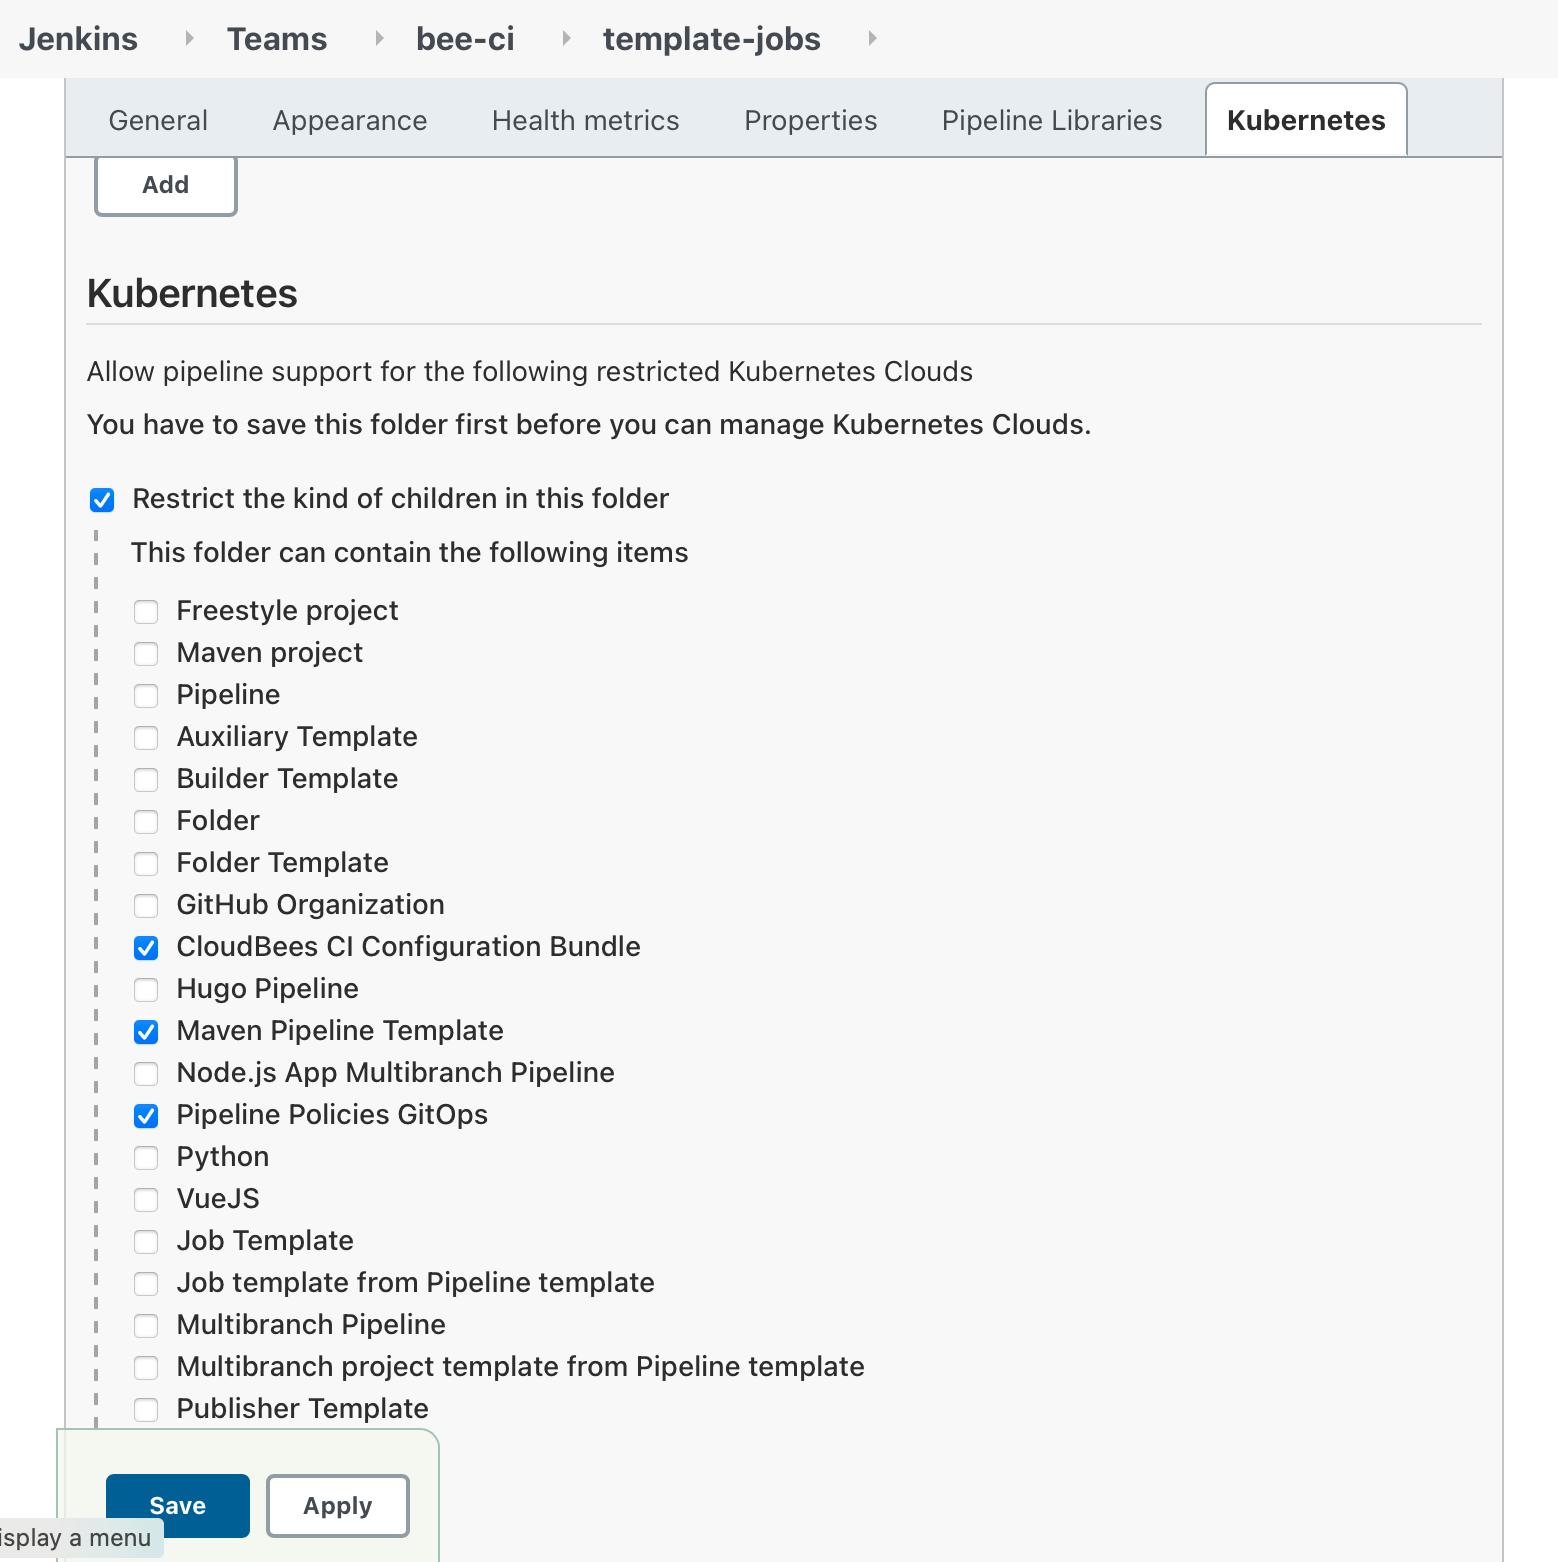
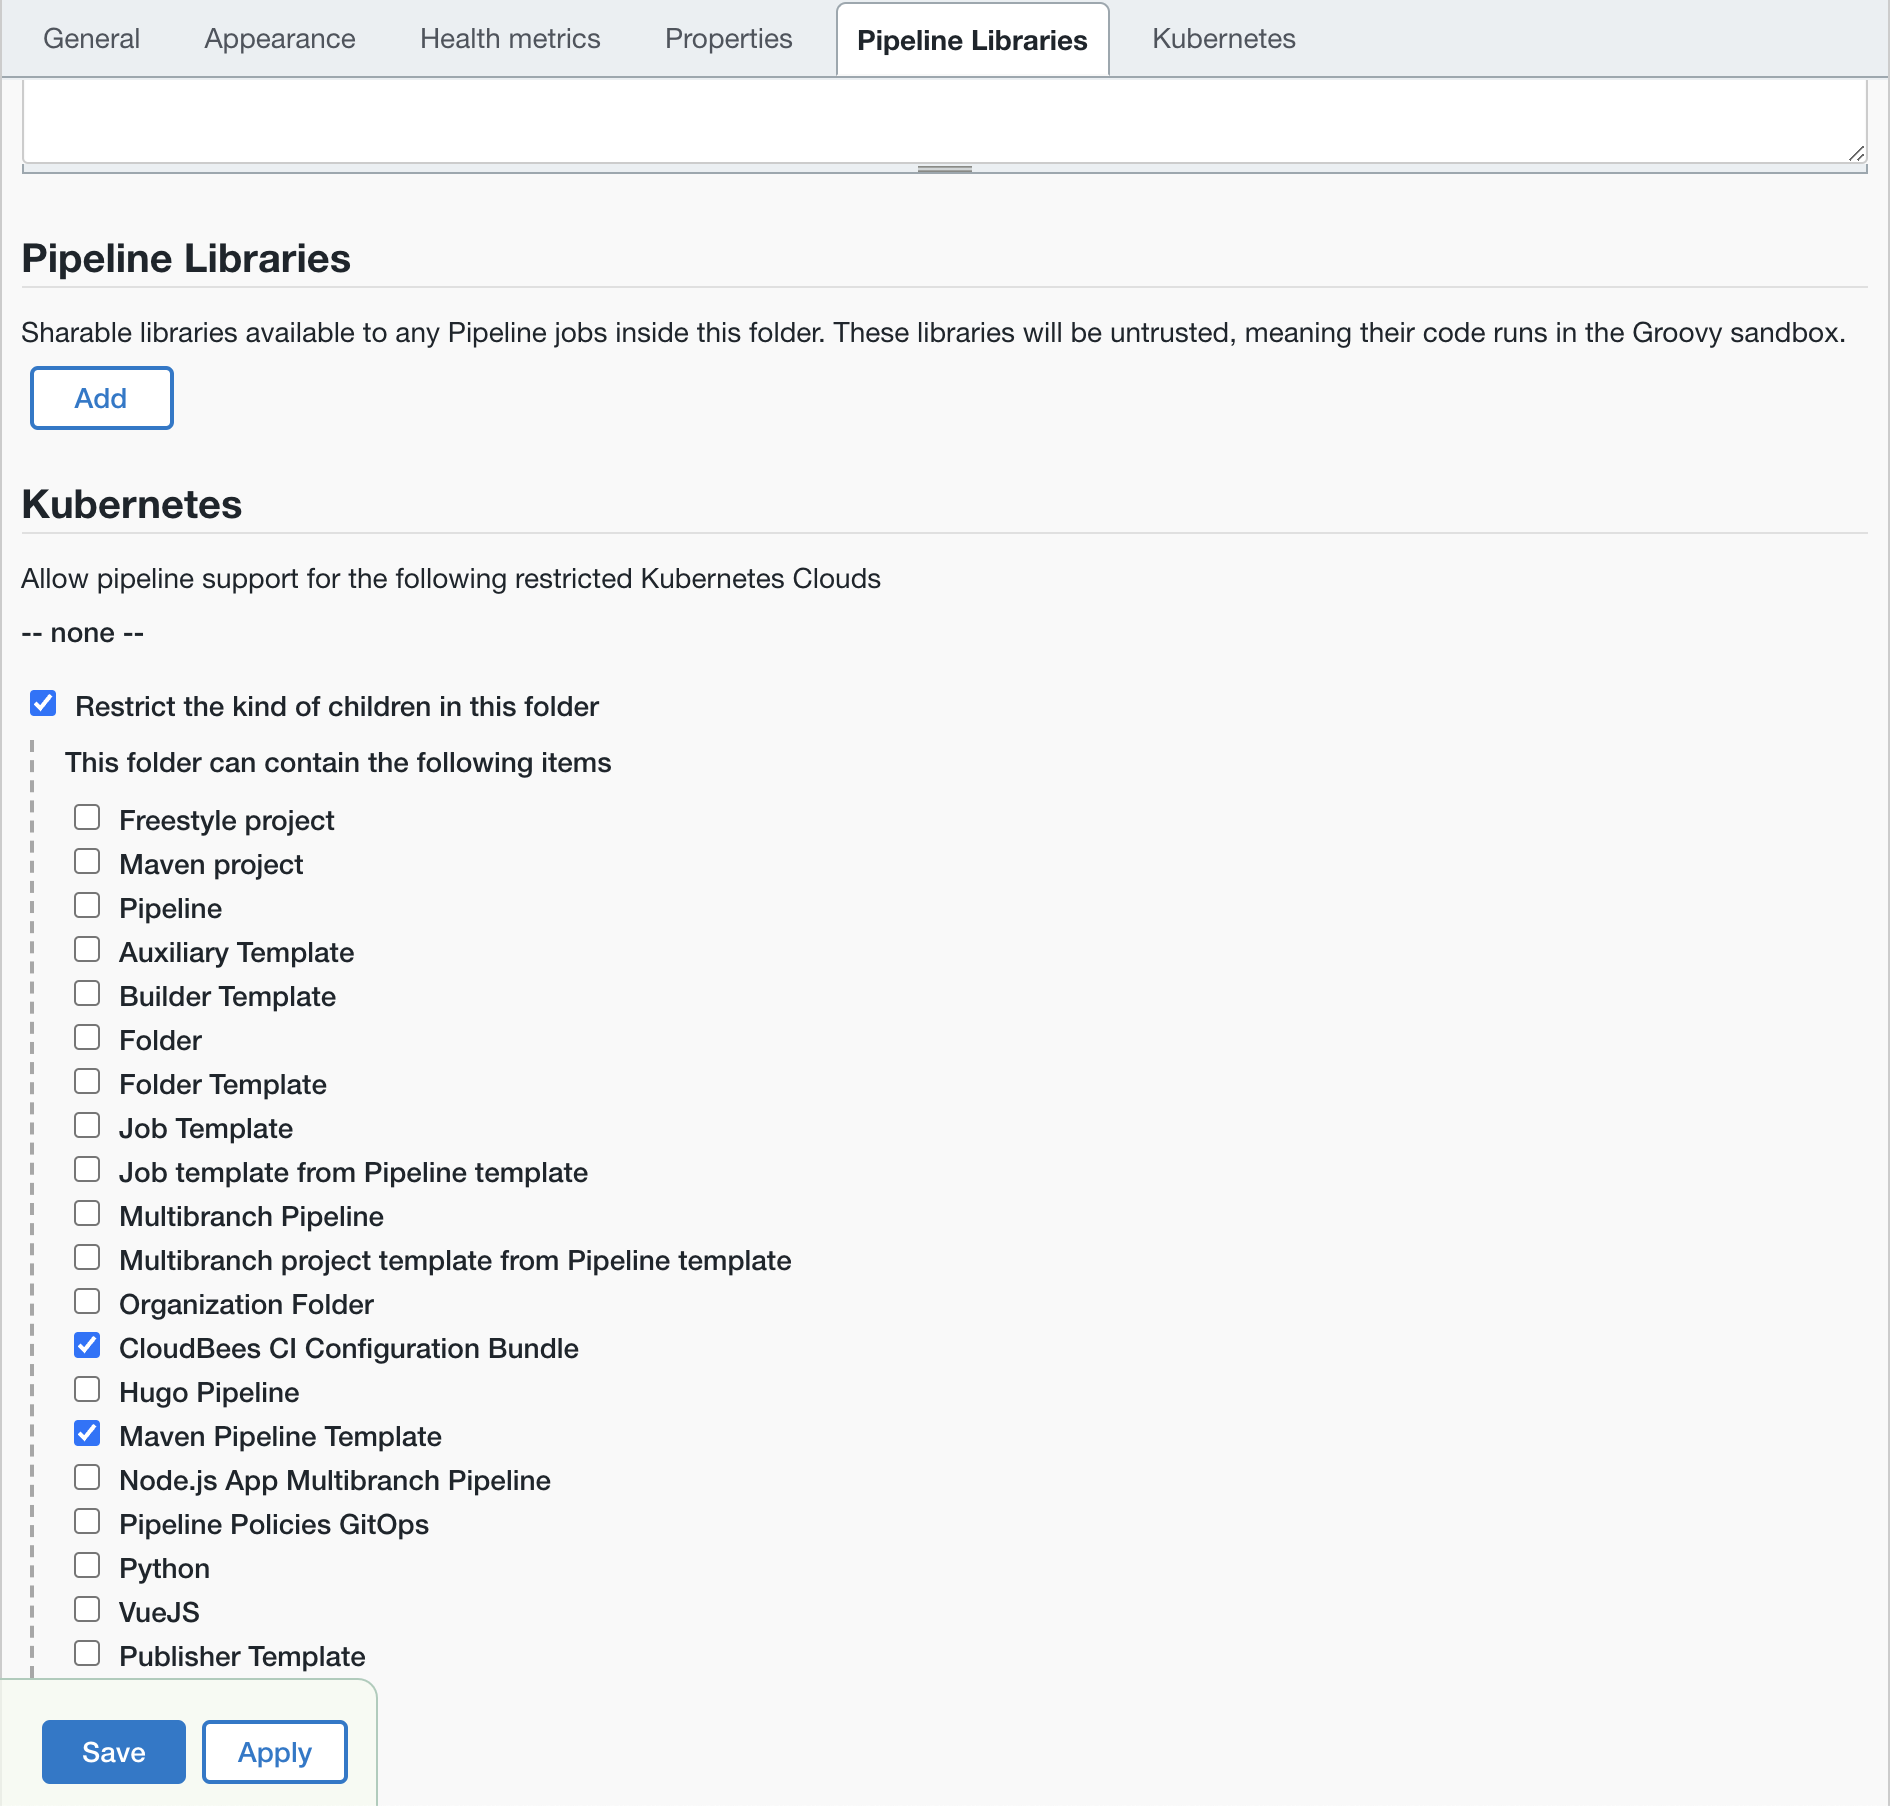
updating template catalog lab

diff --git a/labs/cloudbees-ci/content/module-1/pipeline-template-catalog.md b/labs/cloudbees-ci/content/module-1/pipeline-template-catalog.md
@@ -36,6 +36,10 @@ globalCloudBeesPipelineTemplateCatalog:
     updateInterval: "1d"
 ```
 
+{{% notice note %}}
+Notice the `${GITHUB_ORGANIZATION}` variable placeholders. These will be replaced by environmental variables applied to your controller when it was provisioned and is similar to how secrets can be injected into a Jenkins Configuration as Code file, as we will see in the next section on CloudBees CI Configuration as Code.
+{{% /notice %}}
+
 2. Next, navigate to the top-level of CloudBees CI Operations Center - **Dashboard** - and click on the link for your Managed Controller that is named **controller** (it will be in a folder with the same name as your workshop GitHub Organization). ![Managed Controller link](managed-controller-link.png?width=60pc)
 3. At the top-level of your managed controller, click on the **Pipeline Template Catalogs** link in the menu on the left. ![Pipeline Template Catalogs link](catalog-link.png?width=40pc)
 4. On the **Pipeline Template Catalogs** page ensure that the **workshopCatalog** catalog's **Status** is ***Healthy*** and then click on the **workshopCatalog** link. <p>![workshopCatalog link](workshopcatalog-link.png?width=50pc)
@@ -46,7 +50,7 @@ The [CloudBees CI Folders Plus plugin](https://docs.cloudbees.com/docs/cloudbees
 
 1. Navigate back to the top-level of your CloudBees CI Managed Controller (Jenkins instance) and click on **New Item** in the left menu (notice how many different items are listed).
 2. For the **item name** enter ***template-jobs***, select **Folder** (be sure to select **Folder** and not **Folder Template**) as the item type and then click the **OK** button. ![Restricted Folder Item](new-folder-click.png?width=50pc)
-3. Scroll to the bottom of the folder configuration and click on **Restrict the kind of children in this folder** - a [CloudBees Folders Plus](https://docs.cloudbees.com/docs/cloudbees-core/latest/cloud-secure-guide/folders-plus) feature - and then select **CloudBees CI Configuration Bundle**, **Maven Pipeline Template** and **Pipeline Policies GitOps** (the template jobs we will be using throughout the rest of the workshop) - and then hit the **Save** button. ![Restricted Folder Items](restricted-items-check.png?width=40pc)
-4. Now when you click on **New Item** in the **template-jobs** folder you will be restricted to the **CloudBees CI Configuration Bundle**, **Maven Pipeline Template** and **Pipeline Policies GitOps** item types. This reduces confusion of what job types to use and enforces the use of approved templates. ![Restricted Folder New Item](restricted-folder-new-item.png?width=30pc)
+3. Scroll to the bottom of the folder configuration and click on **Restrict the kind of children in this folder** - a [CloudBees Folders Plus](https://docs.cloudbees.com/docs/cloudbees-core/latest/cloud-secure-guide/folders-plus) feature - and then select **CloudBees CI Configuration Bundle** and **Maven Pipeline Template** (the template jobs we will be using throughout the rest of the workshop) - and then hit the **Save** button. ![Restricted Folder Items](restricted-items-check.png?width=40pc)
+4. Now when you click on **New Item** in the **template-jobs** folder you will be restricted to the **CloudBees CI Configuration Bundle** and **Maven Pipeline Template** item types. This reduces confusion of what job types to use and enforces the use of approved templates. ![Restricted Folder New Item](restricted-folder-new-item.png?width=30pc)
 
 **For instructor led workshops please <a href="https://cloudbees-days.github.io/cloudbees-field-workshops/cloudbees-ci/#pipeline-template-catalog-overview">return to the workshop slides</a>**   
